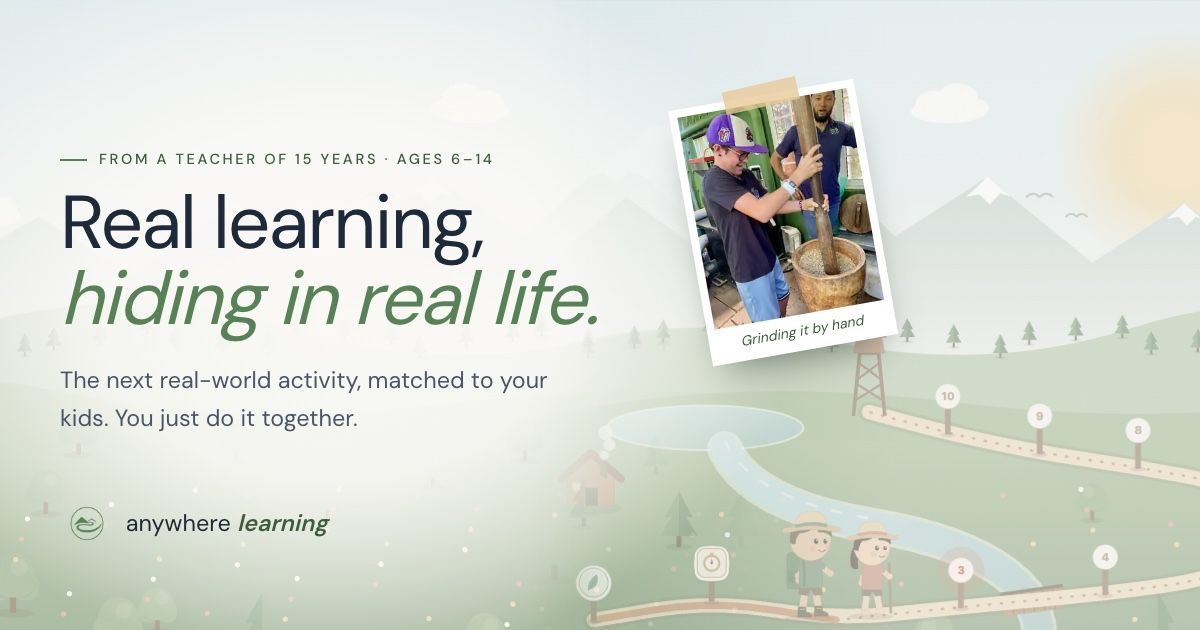
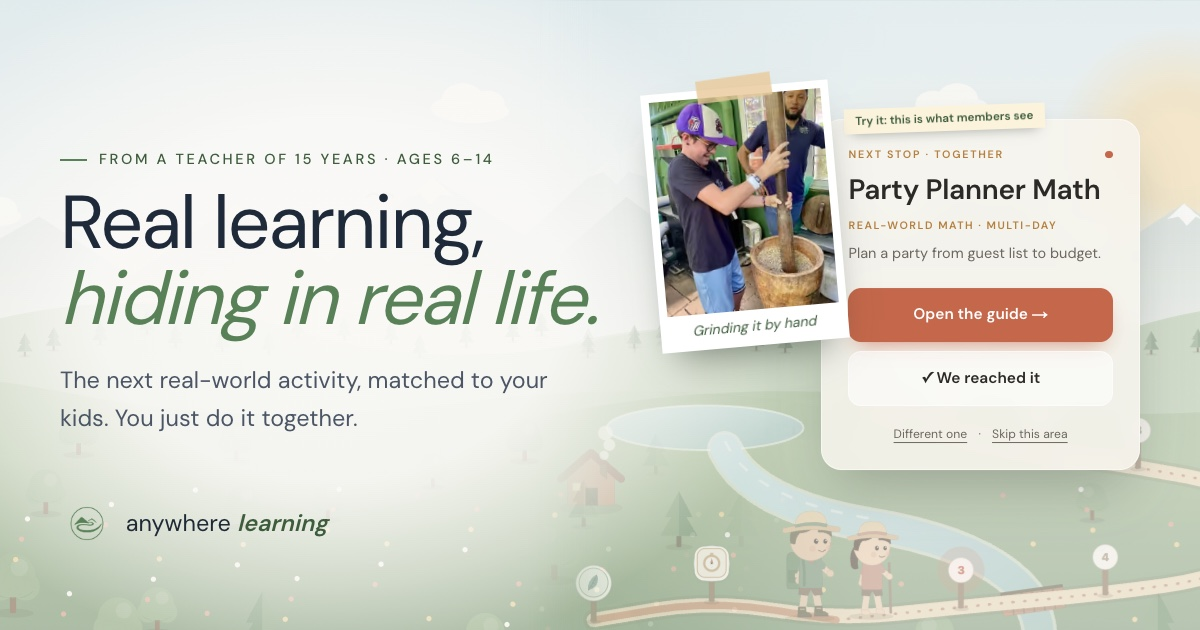
Share card: keep the Party Planner Math demo card

Changed region(s): [[0.5242, 0.0905, 0.9558, 0.7841]]

diff --git a/scripts/og-card/og-dom.js b/scripts/og-card/og-dom.js
@@ -4,8 +4,7 @@ const sec=document.querySelector('h1').closest('section');
 [...document.body.querySelectorAll('section')].forEach(s=>{ if(s!==sec) s.style.display='none'});
 const cta=[...sec.querySelectorAll('a')].find(a=>a.textContent.includes('Start free trial')); cta.parentElement.style.display='none';
 const fine=[...sec.querySelectorAll('p')].find(p=>p.textContent.includes('days free')); if(fine) fine.style.display='none';
-const f=sec.querySelector('figure'); [...f.parentElement.children].forEach(ch=>{ if(ch!==f) ch.style.visibility='hidden'});
-f.style.transform='translate(40px,10px) rotate(-5deg)';
+const f=sec.querySelector('figure');
 const h1=sec.querySelector('h1'); h1.style.fontSize='80px'; h1.style.lineHeight='1.02'; h1.innerHTML='Real learning,<br><span class="italic text-forest" style="white-space:nowrap">hiding in real life.</span>';
 const col=h1.parentElement; col.style.maxWidth='760px';
 const p=[...sec.querySelectorAll('p')].find(p=>p.textContent.includes('We hand you')); p.style.fontSize='25px'; p.style.maxWidth='560px'; p.textContent='The next real-world activity, matched to your kids. You just do it together.';

diff --git a/app/course/page.tsx b/app/course/page.tsx
@@ -29,7 +29,7 @@ export const metadata: Metadata = {
     type: "website",
     images: [
       {
-        url: "https://anywherelearning.co/og-default.jpg?v=5",
+        url: "https://anywherelearning.co/og-default.jpg?v=6",
         width: 1200,
         height: 630,
         alt: "Real-World Learning in 5 Days, a free email course from Anywhere Learning",
@@ -41,7 +41,7 @@ export const metadata: Metadata = {
     title: "Real-World Learning in 5 Days: Free Email Course",
     description:
       "Five short emails from a former teacher: what real-world learning is, why it matters, and the four moves to make it happen at home.",
-    images: ["https://anywherelearning.co/og-default.jpg?v=5"],
+    images: ["https://anywherelearning.co/og-default.jpg?v=6"],
   },
 };
 

diff --git a/app/layout.tsx b/app/layout.tsx
@@ -71,7 +71,7 @@ export const metadata: Metadata = {
       "Real-world activities where the academics and life skills happen in one task. Plan a party, that's fractions and budgeting. No worksheets, low prep. Ages 6-14.",
     images: [
       {
-        url: "https://anywherelearning.co/og-default.jpg?v=5",
+        url: "https://anywherelearning.co/og-default.jpg?v=6",
         width: 1200,
         height: 630,
         alt: "Real-World Learning Activities for Kids | Anywhere Learning",

diff --git a/app/(store)/shop/page.tsx b/app/(store)/shop/page.tsx
@@ -40,7 +40,7 @@ export const metadata: Metadata = {
     type: 'website',
     images: [
       {
-        url: 'https://anywherelearning.co/og-default.jpg?v=5',
+        url: 'https://anywherelearning.co/og-default.jpg?v=6',
         width: 1200,
         height: 630,
         alt: 'Anywhere Learning: real-world learning activities for kids ages 6 to 14',
